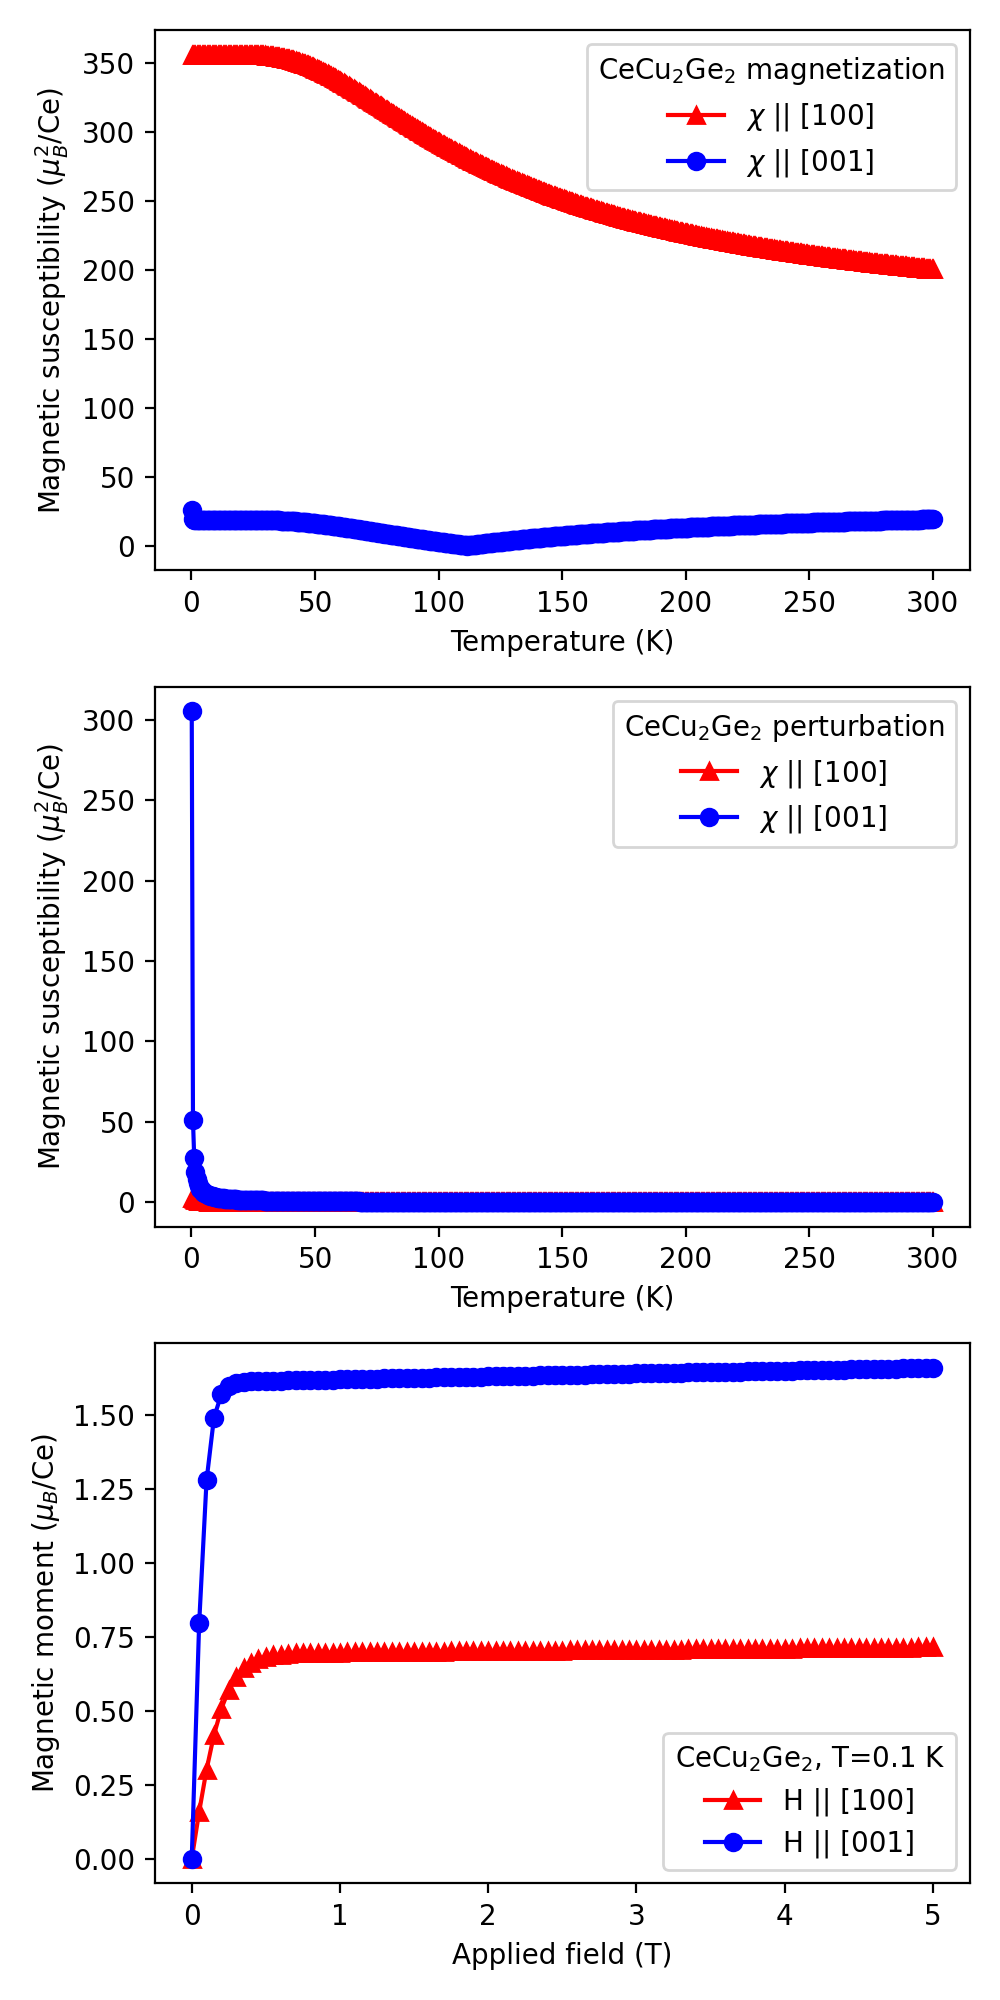
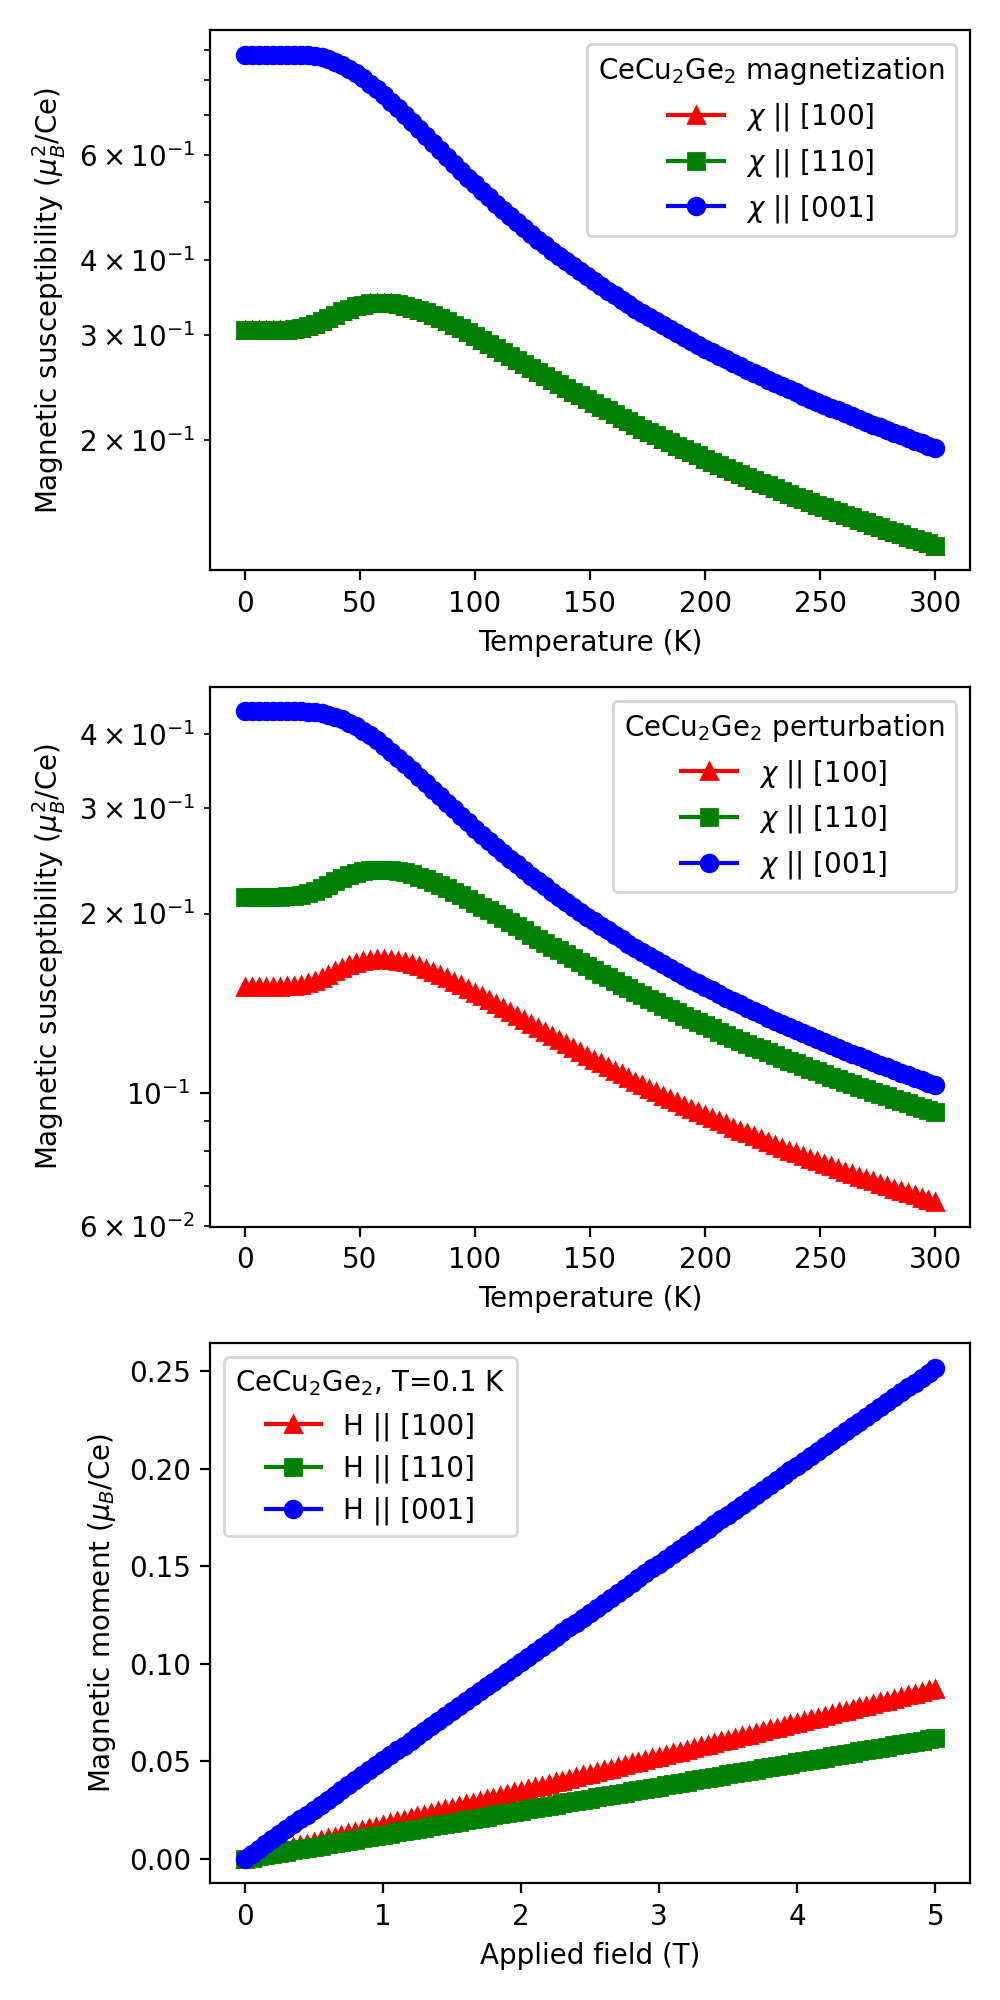
fix magnetization, types

diff --git a/examples/CeCu2Ge2.py b/examples/CeCu2Ge2.py
@@ -1,21 +1,11 @@
 import numpy as np
 import matplotlib.pyplot as plt
-from scipy.optimize import curve_fit
-import multiprocessing, os
+import time
 
-from timeit import default_timer as timer
-
-import sys
-sys.path.append('C:/Users/Stekiel/Documents/GitHub/mikibox')
-import mikibox as ms
-
-
-lattice = ms.crystallography.Lattice([4,4,10.6,90,90,90])
+import crysfipy
 
 calculateTAS = True
 calculateMagnetism = True
-
-num_simulations = 100000
 
 # Following calculation is to cross check the calculations for the orthorhombic case with Ce
 # Source: Klicpera et al, PHYSICAL REVIEW B 95, 085107 (2017)
@@ -24,53 +14,18 @@ num_simulations = 100000
 # Published results:  E1=7.2 meV,   E2=12.2 meV
 # Calculated results: E1=7.091 meV, E2=11.772 meV
 
-CEFpars = ms.crysfipy.CEFpars('D4', [-10.26, -0.056, 2.67], 'K')
-cefion = ms.crysfipy.CEFion(ms.crysfipy.Ion('Ce'),[0,0,2], CEFpars, diagonalize=False)
-cefion.diagonalize(shiftToZero=False)
-
-print(cefion.cfp)
-print(cefion)
 
 
-if calculateTAS:
-    fig, ax = plt.subplots(figsize=(6,4), tight_layout=True)
-        
-    e = np.linspace(-2,25,1000)
-    temperature = 2
-    
-    #ax.set_xlim(-1,10)
-    ax.set_xlabel('Energy (meV)')
-    ax.set_ylabel('S(Q,E)')
+CEFpars = crysfipy.CEFpars('D4', [-10.26, -0.056, 2.67], 'K')
+# CEFpars = crysfipy.CEFpars('C2', [0.33, 0.472, -0.009, 0.111, 0.055], 'meV')
+# CEFpars = crysfipy.CEFpars('D6h', [1.26987, -0.00062433, -2.86435e-07, 1.01125e-05], 'meV')
+cefion = crysfipy.CEFion(crysfipy.Ion('Pr'), CEFpars, diagonalize=True)
 
-    for hkl in [1.25,1.25,0], [0,0,4]:
-        
-        label = f'Q=({hkl[0]} {hkl[1]} {hkl[2]})'
-        Q = lattice.hkl2Q(hkl)
-        De, Dint = ms.crysfipy.neutronint(cefion,temperature, Q=Q, Ei=1.1*np.max(e), scheme='single-crystal')
-       
-        
-        mainTransitions = np.where(Dint> 0.01*np.max(Dint))[0]
-        print(f'Main transitions for the direction {hkl}')
-        print(f'E\t\tI')
-        for it in mainTransitions:
-            print(f'{De[it]}\t{Dint[it]}')
-        
-        sigma=0.1
-        spectrum = np.zeros(e.shape)
-        for Etr, Itr in zip(De, Dint):
-            # Simulate instrumental convolution
-            spectrum += Itr*np.exp(-(Etr-e)**2/sigma/2)/np.sqrt(sigma*2*np.pi)
+temperature=0.1
+temperatures = np.linspace(0.1,300,100)
 
 
-        ax.plot(e, spectrum, label=label)
-
-    ax.legend()
-    fig.savefig('CeCu2Ge2-TAS-mikibox.png',dpi=200)
-    
-if calculateMagnetism:
-    temperature=0.1
-    temperatures = np.linspace(0.1,300,601)
-
+if True:
     fig, axs = plt.subplots(figsize=(5,10), nrows=3, tight_layout=True)
 
 
@@ -79,11 +34,17 @@ if calculateMagnetism:
 
     ax.set_xlabel('Temperature (K)')
     ax.set_ylabel('Magnetic susceptibility ($\mu_B^2$/Ce)')
+    ax.set_yscale('log')
 
-    chi_100 = ms.crysfipy.susceptibility(cefion, temperatures , [1,0,0], method='magnetization')
-    chi_001 = ms.crysfipy.susceptibility(cefion, temperatures , [0,0,1], method='magnetization')
+
+    sc = 17.5
+
+    chi_100 = sc*crysfipy.susceptibility(cefion, temperatures , [1,0,0], method='magnetization')
+    chi_110 = sc*crysfipy.susceptibility(cefion, temperatures , [1,1,0], method='magnetization')
+    chi_001 = sc*crysfipy.susceptibility(cefion, temperatures , [0,0,1], method='magnetization')
 
     ax.plot(temperatures, chi_100, marker='^', color='red', label='$\chi$ || [100]', mfc=None)
+    ax.plot(temperatures, chi_110, marker='s', color='green', label='$\chi$ || [110]', mfc=None)
     ax.plot(temperatures, chi_001, marker='o', color='blue', label='$\chi$ || [001]', mfc=None)
 
     ax.legend(title=f'CeCu$_2$Ge$_2$ magnetization')
@@ -93,14 +54,17 @@ if calculateMagnetism:
 
     ax.set_xlabel('Temperature (K)')
     ax.set_ylabel('Magnetic susceptibility ($\mu_B^2$/Ce)')
+    ax.set_yscale('log')
     #ax.set_ylim(0,4)
 
-    chi_100 = ms.crysfipy.susceptibility(cefion, temperatures , [1,0,0], method='perturbation')
-    chi_001 = ms.crysfipy.susceptibility(cefion, temperatures , [0,0,1], method='perturbation')
+    chi_100 = crysfipy.susceptibility(cefion, temperatures , [1,0,0], method='perturbation')
+    chi_110 = crysfipy.susceptibility(cefion, temperatures , [1,1,0], method='perturbation')
+    chi_001 = crysfipy.susceptibility(cefion, temperatures , [0,0,1], method='perturbation')
 
-#    print(chi_100)
+    #    print(chi_100)
 
     ax.plot(temperatures, chi_100, marker='^', color='red', label='$\chi$ || [100]', mfc=None)
+    ax.plot(temperatures, chi_110, marker='s', color='green', label='$\chi$ || [110]', mfc=None)
     ax.plot(temperatures, chi_001, marker='o', color='blue', label='$\chi$ || [001]', mfc=None)
 
     ax.legend(title=f'CeCu$_2$Ge$_2$ perturbation')
@@ -112,16 +76,17 @@ if calculateMagnetism:
     ax.set_ylabel('Magnetic moment ($\mu_B$/Ce)')
 
     fields = np.linspace(1e-5, 5, 101)
-    Ma, Mc = [], []
+    Ma, Mab, Mc = [], [], []
     for field in fields:
-        Ma.append(ms.crysfipy.magnetization(cefion, temperature, [field,0,0])[0])
-        Mc.append(ms.crysfipy.magnetization(cefion, temperature, [0,0,field])[2])
-
+        Ma.append(crysfipy.magnetization(cefion, temperature, [field,0,0])[0])
+        Mab.append(crysfipy.magnetization(cefion, temperature, [field/np.sqrt(2),field/np.sqrt(2),0])[0])
+        Mc.append(crysfipy.magnetization(cefion, temperature, [0,0,field])[2])
 
 
     ax.plot(fields, Ma, marker='^', color='red', label='H || [100]')
+    ax.plot(fields, Mab, marker='s', color='green', label='H || [110]')
     ax.plot(fields, Mc, marker='o', color='blue',label='H || [001]')
 
     ax.legend(title=f'CeCu$_2$Ge$_2$, T={temperature} K')
 
-    fig.savefig('CeCu2Ge2-magnetism-mikibox.png',dpi=200)
+    fig.savefig(r'C:\Users\Stekiel\Documents\GitHub\crysfipy\examples\CeCu2Ge2-magnetism-mikibox.png',dpi=200)

diff --git a/crysfipy/observables.py b/crysfipy/observables.py
@@ -3,6 +3,7 @@ from .cefmatrices import *
 from .cefion import CEFion
 
 import numpy as np
+import scipy
 
 from typing import Tuple
     
@@ -137,7 +138,7 @@ def magnetization(cefion: CEFion, temperature: float, Hfield: Tuple[float,float,
     '''
     
     # Solve the Hamiltonian of a copy of the given ion
-    cefion_inH = CEFion(cefion.ion, Hfield, cefion.cfp, diagonalize=True)
+    cefion_inH = CEFion(ion=cefion.ion, cfp=cefion.cfp, Hfield=Hfield, diagonalize=True)
 
     # The diagonalized Hamiltonians' operators are already transformed into the sorted eigenvector base
     p = boltzman_population(cefion_inH.energies, temperature)
@@ -167,7 +168,7 @@ def magnetization_exchange(cefion: CEFion, temperature: float, Hfield: Tuple[flo
         lam:
             Exchange field parameter.
         precision:
-            Self-consistent loop will be performed as long as dM/M>precision.
+            Self-consistent loop will be performed as long as |dM/M|>precision.
     '''
     
     # Solve the Hamiltonian of a copy of the given ion
@@ -212,14 +213,7 @@ def susceptibility(cefion: CEFion, temperatures: np.ndarray, Hfield_direction: T
 
     Magnetization is calculated internally by :func:`magnetization`. :math:`\epsilon = 10^{-8}`
 
-    ALL BELOW MADE A CRASH FOR ANOTER SYSTEM
-    In calculations a dangerous trick is used. The :math:`\frac{1-exp(-\Delta_{m,n}/k_B T)}{\Delta_{m,n}}` 
-    factor is computed as a matrix, so naturally it will be divergent on the diagonal, since :math:`\Delta_{m,n}=0` there. 
-    This raises a RuntimeWarning which is ignored , and the diagonal is replaced with the :math:`1/k_B T` values, and the two summations are bundled together. 
-    This feels dirty, but works so far, even for spin-half systems, which have degenerated energy levels.
-    Maybe because the transitions between degenerated levels are not exactly 0 in the calculations (1e-15 rather).
-
-    
+  
 
     
     Parameters:
@@ -240,7 +234,7 @@ def susceptibility(cefion: CEFion, temperatures: np.ndarray, Hfield_direction: T
 
     if method=='magnetization':
         susceptibility = np.zeros(len(temperatures))
-        eps = 1e-8  
+        eps = 1e-5 
         
         for it, temperature in enumerate(temperatures):
             Hfield = eps * np.array(Hfield_direction)/np.linalg.norm(Hfield_direction)
@@ -250,15 +244,20 @@ def susceptibility(cefion: CEFion, temperatures: np.ndarray, Hfield_direction: T
         susceptibility = np.empty(len(temperatures))
         #susceptibility.fill(np.nan)
 
+        # Tricky way to create a 2D array of energies associated with transitions between levels
+        jumps = cefion.energies - cefion.energies[np.newaxis].T
+
+        # Clean up
+        jumps_with_zero_energy = np.where(np.abs(jumps)< C.numerical_zero)
+        jumps_with_positive_energy = np.where(jumps>0)
+        # jumps_with_negative_energy = np.where(jumps<0) # obsolete but left for clarifty, these will be set to zero
+
+        # Calculate the J^2 matrix
+        J2 = np.square(np.abs(cefion.J))
+        J2_directed = np.einsum('i,ijk',Hfield_direction, J2)/np.linalg.norm(Hfield_direction)  # TODO WTF is this projection?
+
+        print(jumps)
         for it, temperature in enumerate(temperatures):
-            # Tricky way to create a 2D array of energies associated with transitions between levels
-            jumps = cefion.energies - cefion.energies[np.newaxis].T
-
-            # Clean up
-            jumps_with_zero_energy = np.where(np.abs(jumps)< C.numerical_zero)
-            jumps_with_positive_energy = np.where(jumps>0)
-            # jumps_with_negative_energy = np.where(jumps<0) # obsolete but left for clarifty, these will be set to zero
-
             # Define the transition matrix taking into account the diagonal and negative energy jumps
             Tmx = np.zeros(np.shape(jumps))
             Tmx[jumps_with_zero_energy] = 1*C.meV2K/temperature
@@ -268,9 +267,6 @@ def susceptibility(cefion: CEFion, temperatures: np.ndarray, Hfield_direction: T
             transition_probs = boltzman_population(cefion.energies, temperature)
             Tmx = Tmx * transition_probs[:, np.newaxis]
 
-            # Calculate the J^2 matrix
-            J2 = np.square(np.abs(cefion.J))
-            J2_directed = np.einsum('i,ijk',Hfield_direction, J2)/np.linalg.norm(Hfield_direction)
             
             susceptibility[it] = (cefion.ion.gJ)**2 * np.sum(Tmx * J2_directed)
     else:
@@ -308,6 +304,7 @@ def thermodynamics(cefion: CEFion, T: np.ndarray) -> Tuple[np.ndarray, np.ndarra
     E2 = np.zeros(len(T))
     
     for En in cefion.energies:
+        print( np.exp(-En*C.meV2K/T) )
         Z += np.exp(-En*C.meV2K/T)
         E += En*np.exp(-En*C.meV2K/T)
         E2 += En*En*np.exp(-En*C.meV2K/T)
@@ -319,5 +316,3 @@ def thermodynamics(cefion: CEFion, T: np.ndarray) -> Tuple[np.ndarray, np.ndarra
     Cv = (E2-E**2)/T**2
             
     return Z, E, F, S, Cv
-
-    

diff --git a/crysfipy/cefion.py b/crysfipy/cefion.py
@@ -53,7 +53,7 @@ class CEFion:
             List of kets corresponding to the J basis of the free ion problem.
     '''
 
-    def __init__(self, ion: Ion, Hfield: Tuple[float, float, float], cfp: CEFpars, diagonalize: bool=True):
+    def __init__(self, ion: Ion, cfp: CEFpars,  Hfield: Tuple[float, float, float]=[0,0,0], diagonalize: bool=True):
         self.ion = ion
         self.Jval = self.ion.J
         Jval = self.Jval
@@ -145,7 +145,8 @@ class CEFion:
         
         Returns
         -------
-            None
+            E, U
+                Products of diagonalization, H = U E U^T.
             
         Raises
         ------
@@ -157,29 +158,25 @@ class CEFion:
         # Diagonalize the Hamiltonian
         # Other functions than scipy.linalg.schur do not produce perpendicular subspaces for degenerated eigenvalues
         E, U = schur(self.hamiltonian)
-        E = np.diag(E)
+        eigenvalues = np.diag(E)
 
         # Check if energies are largely imaginary
-        if np.any( np.abs(np.imag(np.around(E, Eimag_precision))) > 0):
-            raise ValueError(f'Final energies are complex! {E} Check `Eimag_precision` option.')
+        if np.any( np.abs(np.imag(np.around(eigenvalues, Eimag_precision))) > 0):
+            raise ValueError(f'Final energies are complex! {eigenvalues} Check `Eimag_precision` option.')
         
-        self.energies = np.real(E) - int(shiftToZero)*min(np.real(E))     # shift to zero level
+        self.energies = np.real(eigenvalues) - int(shiftToZero)*min(np.real(eigenvalues))     # shift to zero level
 
         # TODO check if U is orthogonal based on comparison with QR decomposition
         self.eigenvectors = U
         
-
         # Sorting
         if sortWithE:
             sortedIndices = self.energies.argsort()
         else:
             sortedIndices = np.arange(self.Jval)
-            
 
         self.eigenvectors = self.eigenvectors[:,sortedIndices]
         self.energies =  self.energies[sortedIndices]
-        
-        
         
         # Change the basis of principal operators to the eigenstate basis with specified sorting scheme
         self.Jx = dot(dot(self.eigenvectors.conj().transpose(), self.Jx), self.eigenvectors)
@@ -188,12 +185,11 @@ class CEFion:
        
         self.J = np.array([self.Jx, self.Jy, self.Jz])
 
-        # Calculate all metrix elemnt
+        # Calculate magnetic moment
         mu = self.ion.gJ * np.einsum('ijj->ji', self.J)
         self.moment = np.real(mu + mu.conj())/2
-       
 
-        #calculate degeneracy
+        # Degeneracy
         deg_e = []
         levels = 0
         deg_e.append([self.energies[0], 0])
@@ -204,7 +200,9 @@ class CEFion:
             else:
                 deg_e[levels][1] += 1
 
-        self.degeneracies = np.array(deg_e)   
+        self.degeneracies = np.array(deg_e)
+
+        return E, U
         
     def __str__(self, precision: float=4):
         """

diff --git a/crysfipy/cefpars.py b/crysfipy/cefpars.py
@@ -1,4 +1,3 @@
-import numbers
 import numpy as np
 from . import constants as C
 
@@ -73,6 +72,10 @@ class CEFpars:
         
         return allowed_Bpars[pointGroupName]
     
+    def fromDict(self, Bdict: dict[str, float], unit: str):
+        # Check if all dictionary keys correspond to implemented Stevens operators
+        return
+    
     def __init__(self, pointGroupName: str, Bvalues: list[float], units: str):
         self.B_names = self.allowed_Bpars(pointGroupName)
     
@@ -123,7 +126,7 @@ class CEFpars:
             
         return ret
             
-    def _assignLattice(self, pointGroupName) -> str:
+    def _assignLattice(self, pointGroupName: str) -> str:
         PG2lattice = {
             'C2':'monoclinic', 'Cs':'monoclinic', 'C2h':'monoclinic',\
             'C2v':'orthorhombic','D2':'orthorhombic', 'D2h':'orthorhombic',\
@@ -134,7 +137,8 @@ class CEFpars:
             'C6':'hexagonal', 'C3h':'hexagonal','C6h':'hexagonal',\
             'D6':'hexagonal', 'C6v':'hexagonal','D3h':'hexagonal', 'D6h':'hexagonal',\
             'T':'cubic', 'Th':'cubic',\
-            'Td':'cubic', 'O':'cubic','Oh':'cubic'\
+            'Td':'cubic', 'O':'cubic','Oh':'cubic',\
+            '?':'undefined'
         }
         
         return PG2lattice[pointGroupName]
